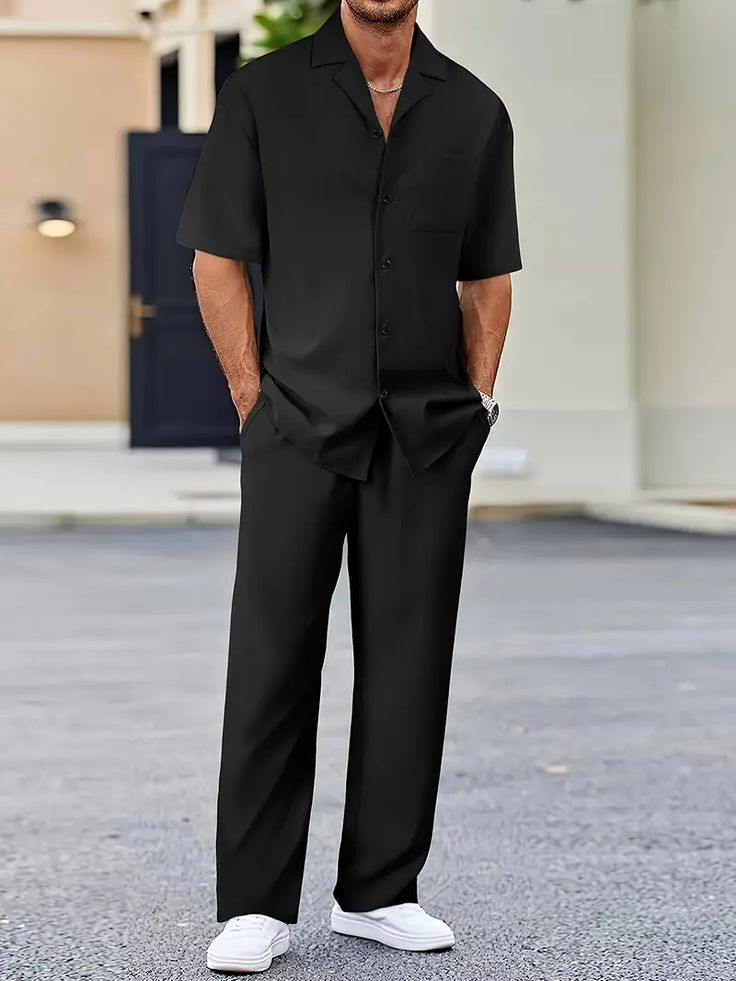
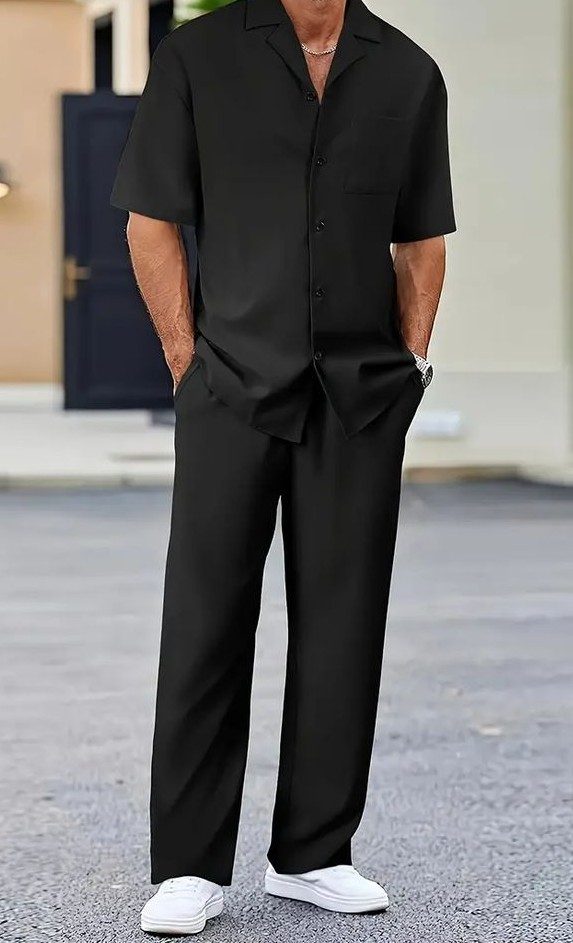
FEAT:Favicon_added

diff --git a/index.html b/index.html
@@ -2,14 +2,14 @@
 <html lang="en">
   <head>
     <meta charset="UTF-8" />
-    <!-- <link rel="icon" type="image/svg+xml" href="/favicon.svg" /> -->
+    <link rel="icon" type="image/jpeg" href="/favicon.jpg" />
     <meta name="viewport" content="width=device-width, initial-scale=1.0" />
-    <title>Dress</title>
+    <title>Black pearl</title>
   </head>
   <body>
     <div id="root"></div>
     <script type="module" src="/src/main.jsx"></script>
-    
+
     <script src="https://checkout.razorpay.com/v1/checkout.js"></script>
   </body>
 </html>

diff --git a/src/components/home/HomeProducts.jsx b/src/components/home/HomeProducts.jsx
@@ -29,8 +29,6 @@ const HomeProducts = ({ category }) => {
         },
       });
 
-      console.log("API Response:", res.data);
-
       // SAFE ARRAY CHECK
       const productsData = Array.isArray(res.data)
         ? res.data